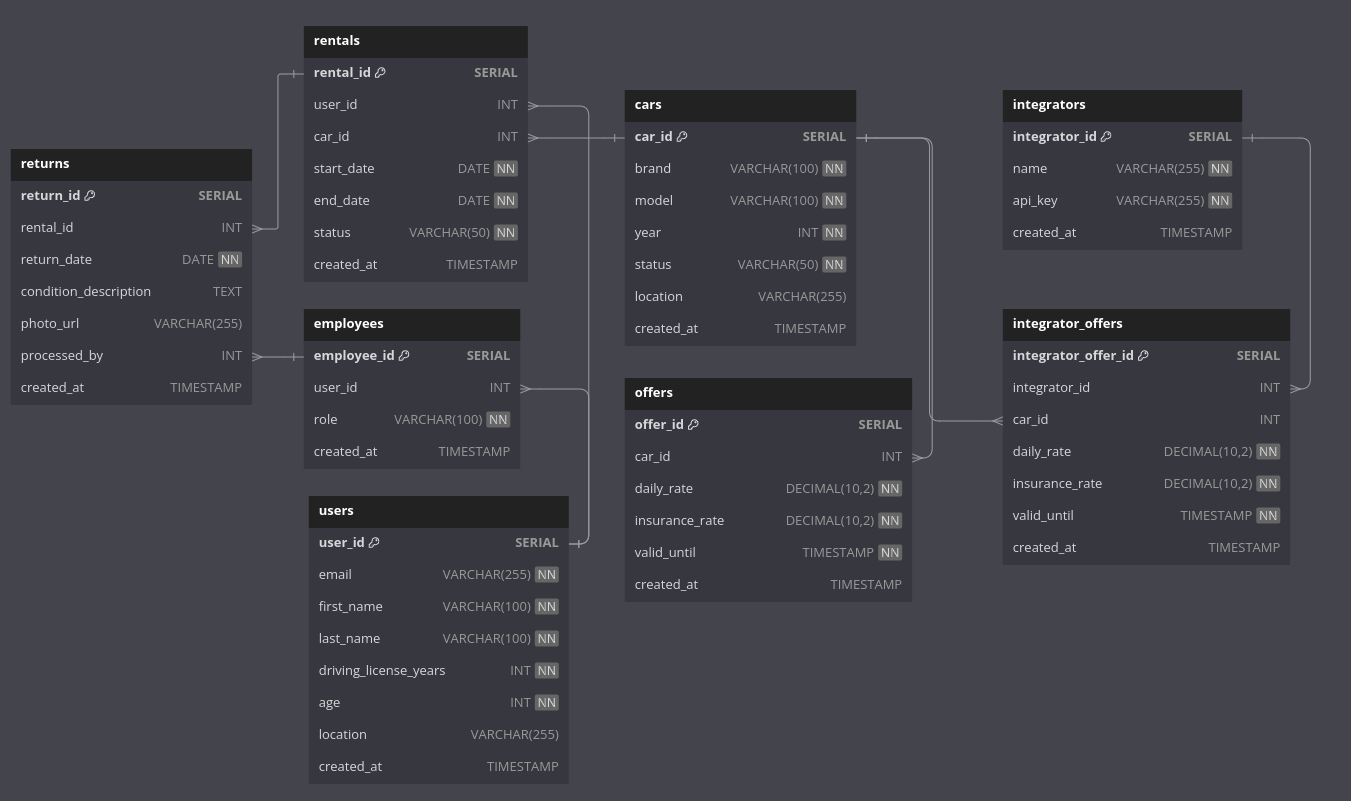
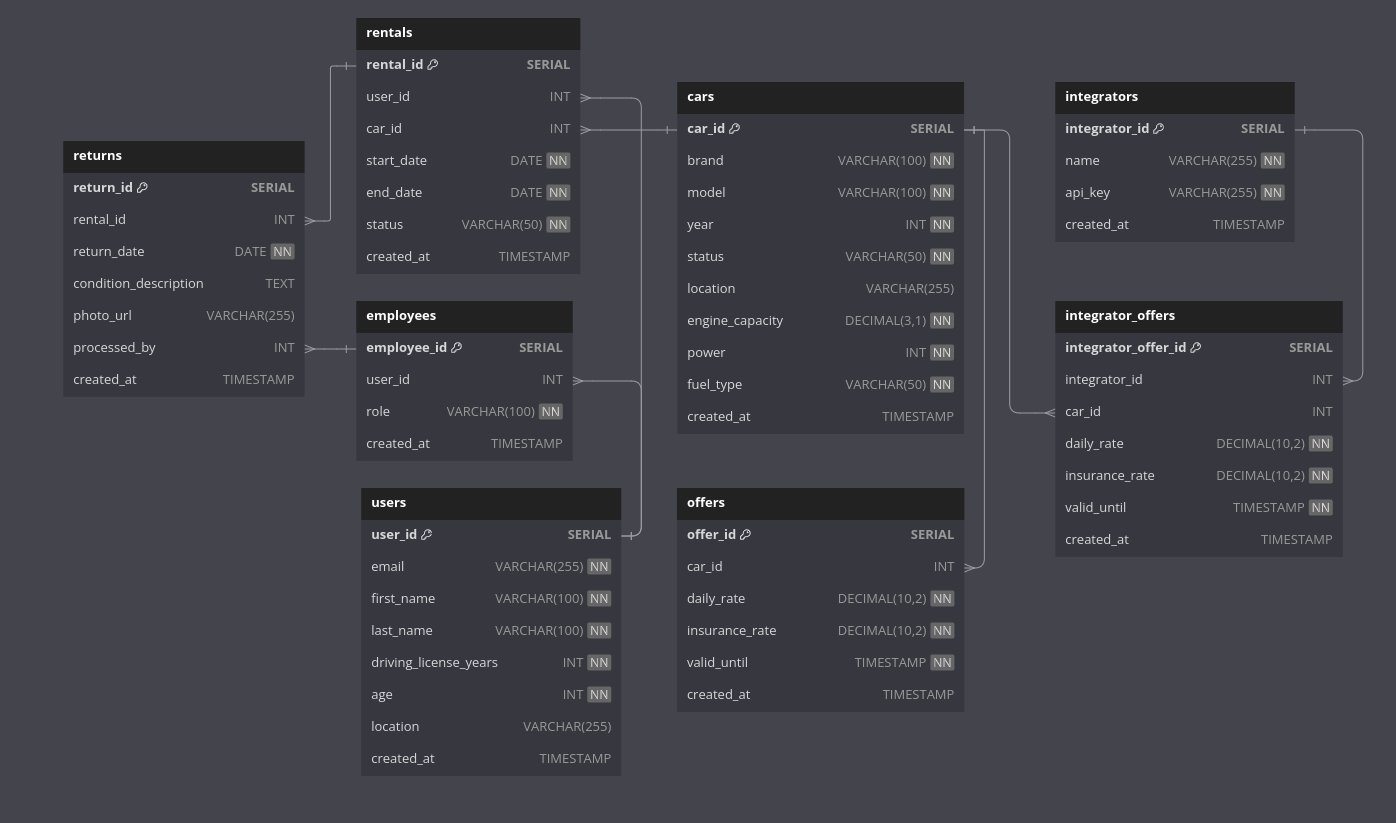
additional fields in cars table: horsepower, engine capacity and fuel type

diff --git a/docs/database.md b/docs/database.md
@@ -1,0 +1,69 @@
+# Car Rental Database
+![image](img/database_schema.png)
+
+This database is designed to support a car rental platform that acts as an intermediary between users and various car rental providers, including our own service.
+
+## 1. Users Table
+- Stores information about registered users of the platform.
+- User details like email, name, age, and driving experience.
+- Used for user authentication, personalization, and rental eligibility checks.
+
+## 2. Cars Table
+- Catalogues all available cars across different rental providers.
+- Brand, model, year, current status, and location.
+- Used to display available cars to users and track car status (available, rented, under maintenance).
+
+## 3. Rentals Table
+- All car rental transactions.
+- Links users to their rented cars, including rental duration and status.
+- Used to track active rentals and rental history.
+
+## 4. Offers Table
+- Pricing information for cars from our own rental service.
+- Daily rates and insurance rates with validity periods.
+- Used to present pricing options to users for in-house rental service.
+
+## 5. Returns Table
+- Car return process.
+- Return date, car condition, and any photos taken during return.
+- Links to the employee who processed the return.
+- Used to manage the return workflow and maintain records for potential disputes.
+
+## 6. Employees Table
+- Stores information about our company's employees.
+- Used for employee authentication and authorization in the system.
+
+## 7. Integrators Table
+- List of external car rental providers integrated with our platform.
+- Stores API keys for secure communication with these providers.
+- Used to manage connections with external rental services.
+
+## 8. Integrator_Offers Table
+- Similar to the Offers table, but for external rental providers.
+- Stores pricing information received from integrated rental services.
+- Used to present users with a comprehensive list of rental options from various providers.
+
+## Workflows:
+
+1. **User Registration and Authentication**:
+   - New users are added to the Users table during registration.
+   - User details are retrieved for authentication and profile management.
+
+2. **Car Search and Booking**:
+   - Users search for cars (querying the Cars table).
+   - System fetches pricing from Offers and Integrator_Offers tables.
+   - Upon booking, a new entry is created in the Rentals table.
+
+3. **Rental Management**:
+   - Active rentals are tracked in the Rentals table.
+   - Car status in the Cars table is updated when rented or returned.
+
+4. **Car Return Process**:
+   - When a car is returned, an entry is created in the Returns table.
+   - An employee (from Employees table) processes the return.
+   - The rental status is updated in the Rentals table.
+
+5. **Offer Management**:
+   - Our own offers are managed in the Offers table.
+   - External offers are stored and updated in the Integrator_Offers table.
+
